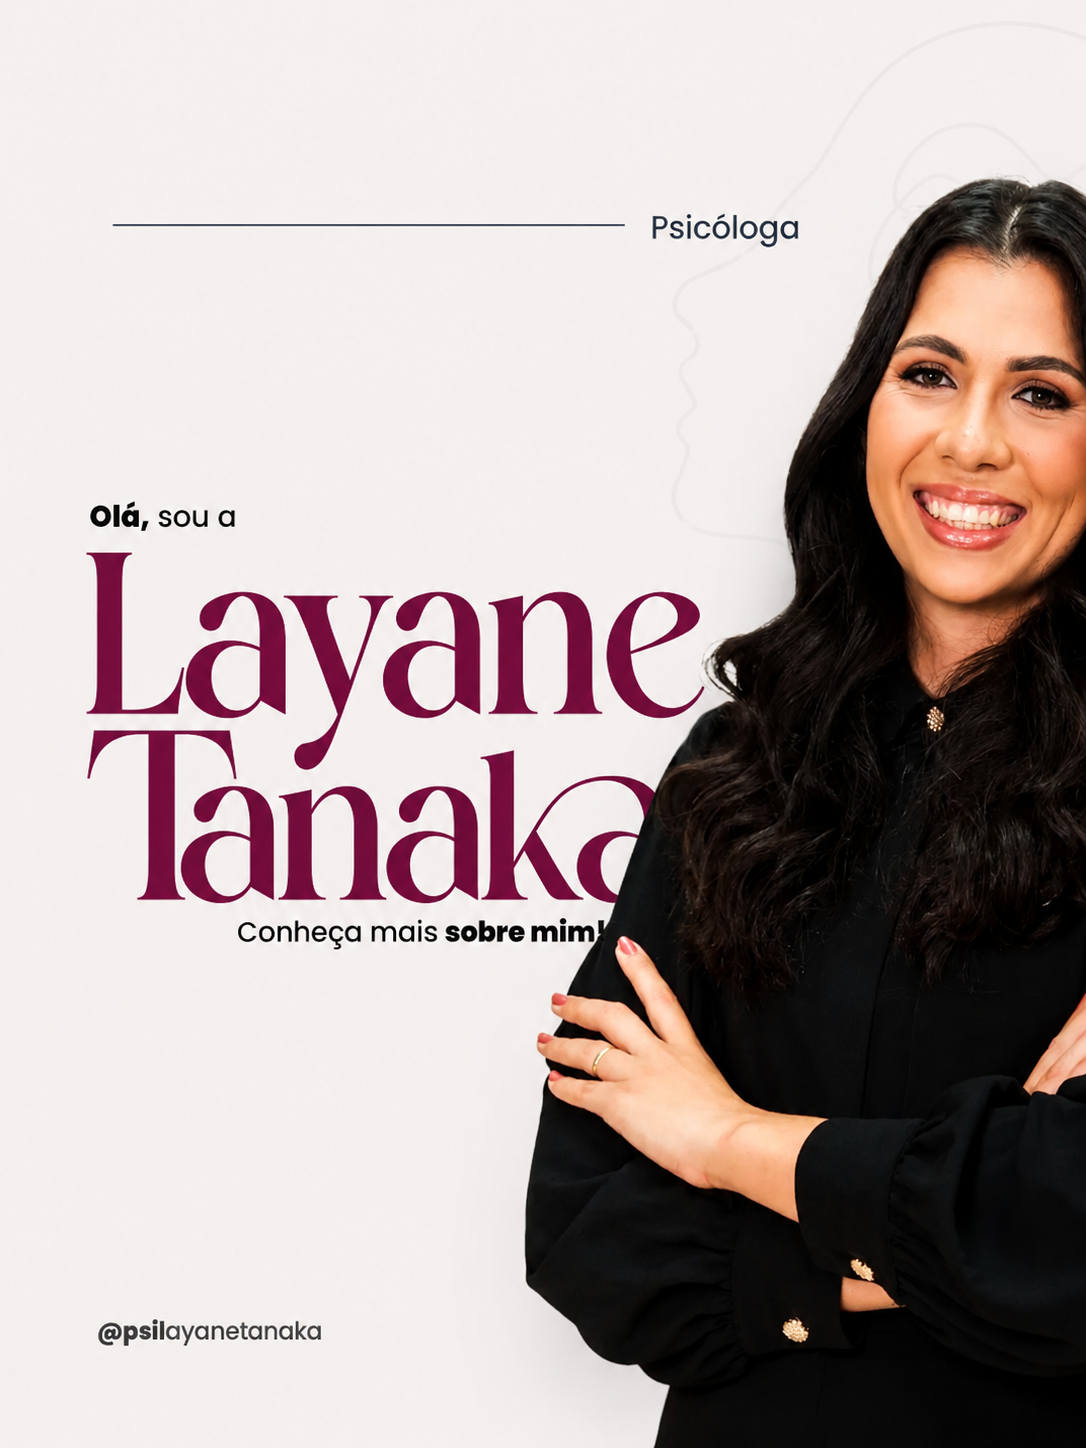
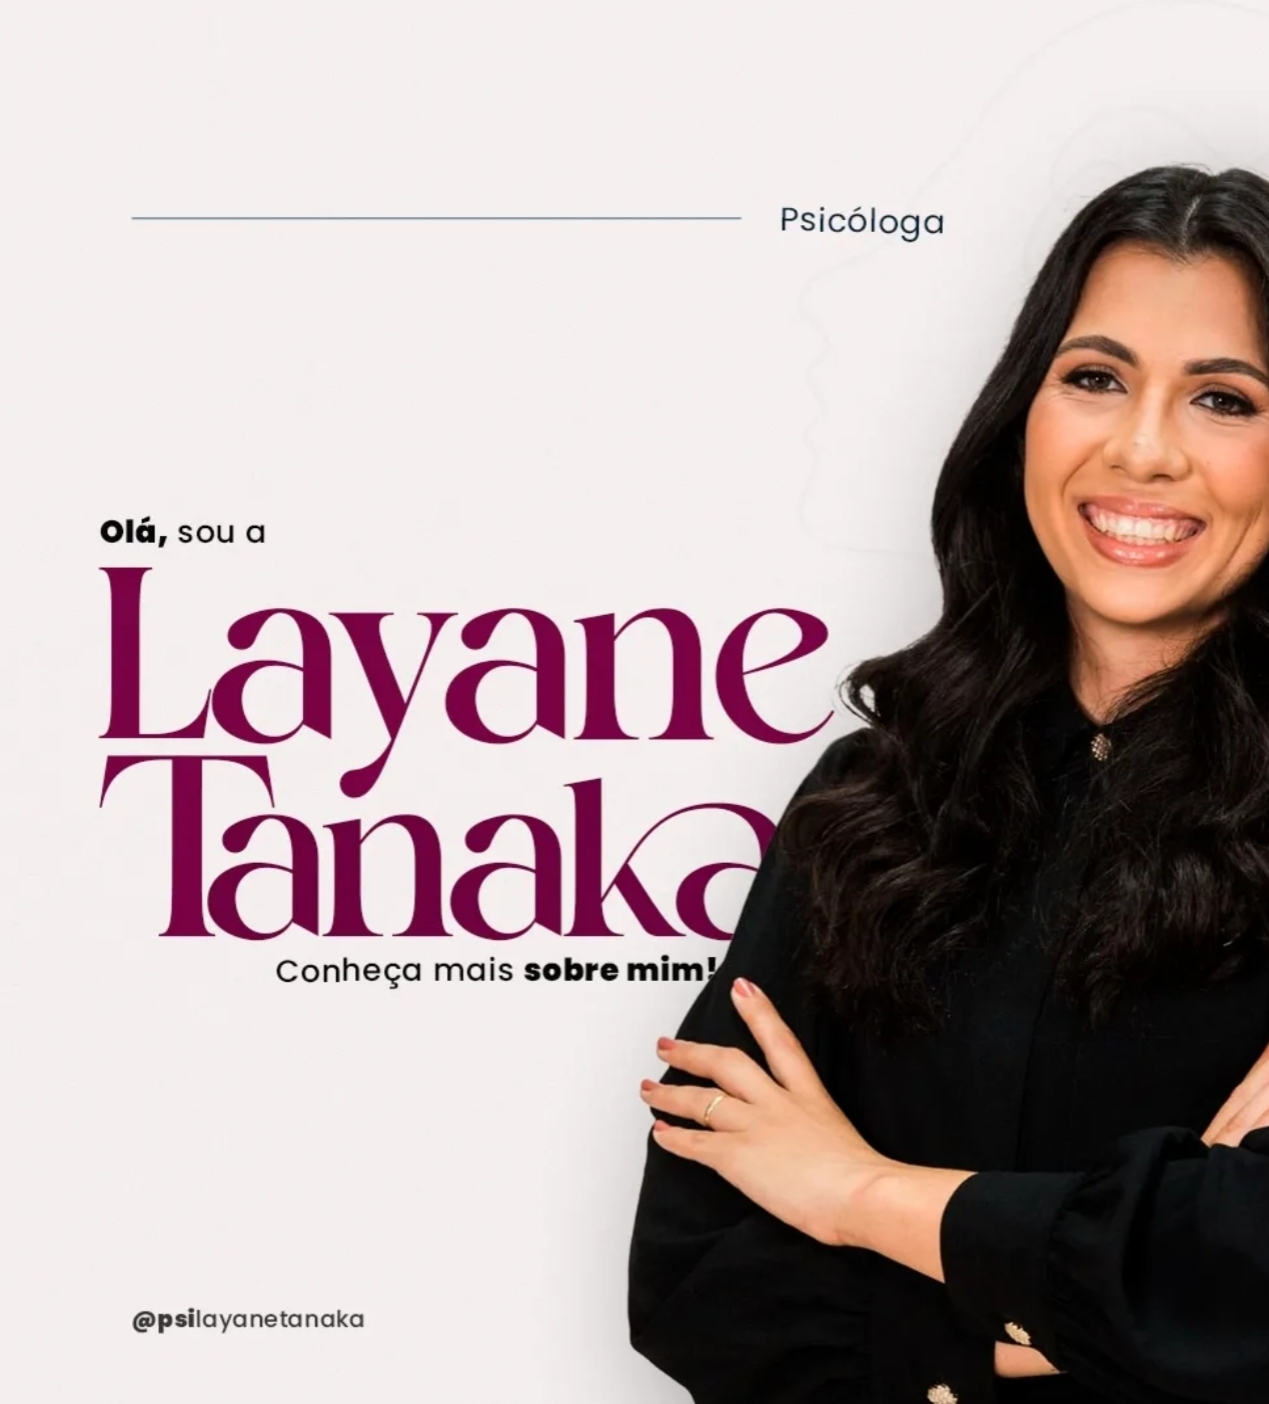
fix: resolve horizontal overflow issues
Standardize container widths and apply overflow-x-hidden globally to prevent unwanted horizontal scrolling on mobile devices.

diff --git a/app/layout.tsx b/app/layout.tsx
@@ -39,10 +39,7 @@ export default function RootLayout({ children }: { children: React.ReactNode }) 
   return (
     <html lang="pt-BR" className={`${cormorant.variable} ${inter.variable} ${jetbrainsMono.variable} ${lora.variable}`}>
       <head>
-        <meta
-          name="viewport"
-          content="width=device-width, initial-scale=1.0, maximum-scale=1.0, user-scalable=no"
-        />
+        <meta name="viewport" content="width=device-width, initial-scale=1.0, maximum-scale=1.0, user-scalable=no" />
         <link
           rel="preload"
           href="/hero_consultorio.jpg"
@@ -56,7 +53,7 @@ export default function RootLayout({ children }: { children: React.ReactNode }) 
           type="image/jpeg"
         />
       </head>
-      <body className="antialiased font-sans bg-brand-bg text-brand-text overflow-x-hidden selection:bg-brand-accent selection:text-brand-bg" suppressHydrationWarning>
+      <body className="w-full max-w-[100vw] overflow-x-hidden antialiased font-sans bg-brand-bg text-brand-text selection:bg-brand-accent selection:text-brand-bg" suppressHydrationWarning>
         <PageLoader />
         {children}
       </body>

diff --git a/components/Pillars.tsx b/components/Pillars.tsx
@@ -74,7 +74,7 @@ export const Pillars = ({ pillars }: PillarsProps) => {
   if (!hasMounted) return null;
 
   return (
-    <section className="py-24 px-6 lg:py-40" aria-labelledby="pilares-titulo">
+    <section className="w-full overflow-x-hidden py-24 px-6 lg:py-40" aria-labelledby="pilares-titulo">
       <h2 className="font-mono text-xs text-brand-accent uppercase tracking-widest text-center mb-6">
         02 / COMO FUNCIONA
       </h2>
@@ -82,7 +82,7 @@ export const Pillars = ({ pillars }: PillarsProps) => {
         Do primeiro contato ao acompanhamento.
       </h3>
 
-      <div className="max-w-4xl mx-auto grid grid-cols-1 md:grid-cols-3 gap-8">
+      <div className="w-full max-w-4xl mx-auto grid grid-cols-1 md:grid-cols-3 gap-8">
         {pillars.map((pillar, index) => {
           const isActive = isMobile
             ? activeIndex === index

diff --git a/components/Process.tsx b/components/Process.tsx
@@ -40,8 +40,8 @@ export function Process() {
   const progressHeight = isReducedMotion ? '100%' : `${scrollProgress * 100}%`;
 
   return (
-    <section id="processo" ref={sectionRef} className="py-24 lg:py-40 bg-brand-bg relative overflow-hidden">
-      <div className="max-w-7xl mx-auto px-6 lg:px-12 flex flex-col lg:flex-row gap-16 lg:gap-32">
+    <section id="processo" ref={sectionRef} className="w-full relative py-24 lg:py-40 bg-brand-bg overflow-hidden">
+      <div className="w-full max-w-7xl mx-auto px-6 lg:px-12 flex flex-col lg:flex-row gap-16 lg:gap-32">
         {/* Sticky Title */}
         <div className="lg:w-1/3 lg:sticky lg:top-40 h-[fit-content]">
           <h2 className="font-mono text-xs text-brand-accent uppercase tracking-widest mb-6">

diff --git a/components/EditorialBreak.tsx b/components/EditorialBreak.tsx
@@ -1,7 +1,7 @@
 export function EditorialBreak() {
   return (
-    <section className="py-[120px] lg:py-[200px] bg-brand-bg border-t border-brand-border">
-      <div className="max-w-4xl mx-auto px-6 lg:px-12 flex flex-col items-center text-center">
+    <section className="w-full overflow-x-hidden py-[120px] lg:py-[200px] bg-brand-bg border-t border-brand-border">
+      <div className="w-full max-w-4xl mx-auto px-6 lg:px-12 flex flex-col items-center text-center">
         <h2 className="font-serif italic font-normal text-[clamp(2rem,5vw,3.5rem)] leading-snug text-brand-text" style={{ fontFamily: 'var(--font-lora)' }}>
           &quot;Não é a situação que nos afeta, mas a forma como pensamos sobre ela.&quot;
         </h2>

diff --git a/components/Psicologa.tsx b/components/Psicologa.tsx
@@ -34,11 +34,11 @@ export function Psicologa() {
   return (
     <section 
       id="doutora" 
-      className={`py-24 lg:py-40 noise-bg section-doutora ${isFocused ? 'focused' : ''}`}
+      className={`w-full overflow-x-hidden py-24 lg:py-40 noise-bg section-doutora ${isFocused ? 'focused' : ''}`}
       onMouseEnter={handleMouseEnter}
       onMouseLeave={handleMouseLeave}
     >
-      <div className="max-w-7xl mx-auto px-6 lg:px-12">
+      <div className="w-full max-w-7xl mx-auto px-6 lg:px-12">
         <h2 className="font-mono text-xs text-brand-champagne uppercase tracking-widest flex items-center justify-center lg:justify-start mb-16">
           01 / A PSICÓLOGA
         </h2>

diff --git a/components/Treatments.tsx b/components/Treatments.tsx
@@ -11,8 +11,8 @@ const iconMap: Record<string, React.ElementType> = {
 
 export function Treatments() {
   return (
-    <section id="tratamentos" className="py-24 lg:py-40 bg-brand-bg-secondary">
-      <div className="max-w-7xl mx-auto px-6 lg:px-12">
+    <section id="tratamentos" className="w-full overflow-x-hidden py-24 lg:py-40 bg-brand-bg-secondary">
+      <div className="w-full max-w-7xl mx-auto px-6 lg:px-12">
         <div className="mb-20">
           <h2 className="font-mono text-xs text-brand-accent uppercase tracking-widest mb-6">
             03 / TRATAMENTOS

diff --git a/components/Unit.tsx b/components/Unit.tsx
@@ -2,8 +2,8 @@ import { config } from '@/lib/config';
 
 export function Unit() {
   return (
-    <section className="py-24 lg:py-40 bg-brand-bg-secondary noise-bg border-t border-brand-border">
-      <div className="max-w-7xl mx-auto px-6 lg:px-12">
+    <section className="w-full overflow-x-hidden py-24 lg:py-40 bg-brand-bg-secondary noise-bg border-t border-brand-border">
+      <div className="w-full max-w-7xl mx-auto px-6 lg:px-12">
         
         <div className="grid grid-cols-1 lg:grid-cols-2 gap-16 lg:gap-24 items-center">
           

diff --git a/components/Hero.tsx b/components/Hero.tsx
@@ -11,7 +11,7 @@ export function Hero() {
   const config = contentExport.siteConfig;
 
   return (
-    <section className="relative min-h-[92vh] flex items-center justify-center pt-24 bg-brand-bg overflow-hidden noise-bg">
+    <section className="relative w-full min-h-[92vh] flex items-center justify-center pt-24 bg-brand-bg overflow-hidden noise-bg">
       <div className="max-w-7xl mx-auto w-full px-6 lg:px-12 grid grid-cols-1 lg:grid-cols-[55%_45%] gap-12 lg:gap-8 items-center z-10">
         
         {/* Left: Content */}

diff --git a/components/Contact.tsx b/components/Contact.tsx
@@ -11,8 +11,8 @@ export function Contact() {
   };
 
   return (
-    <section id="contato" className="py-24 lg:py-40 bg-brand-bg">
-      <div className="max-w-7xl mx-auto px-6 lg:px-12 grid grid-cols-1 lg:grid-cols-2 gap-16 lg:gap-24">
+    <section id="contato" className="w-full overflow-x-hidden py-24 lg:py-40 bg-brand-bg">
+      <div className="w-full max-w-7xl mx-auto px-6 lg:px-12 grid grid-cols-1 lg:grid-cols-2 gap-16 lg:gap-24">
         
         {/* Social */}
         <div className="flex flex-col justify-center">

diff --git a/components/Footer.tsx b/components/Footer.tsx
@@ -3,7 +3,7 @@ import { Logo } from './Logo';
 
 export function Footer() {
   return (
-    <footer className="bg-[#1A2733] text-brand-bg py-24 lg:py-32 relative z-10 w-full flex flex-col items-center">
+    <footer className="w-full overflow-x-hidden bg-[#1A2733] text-brand-bg py-24 lg:py-32 relative z-10 flex flex-col items-center">
       
       {/* Centered Large Info */}
       <div className="flex flex-col items-center mb-24 text-center px-6">

diff --git a/app/page.tsx b/app/page.tsx
@@ -37,7 +37,7 @@ export default function Page() {
   };
 
   return (
-    <main className="w-full relative selection:bg-brand-accent selection:text-brand-bg pb-0">
+    <main className="w-full overflow-x-hidden relative selection:bg-brand-accent selection:text-brand-bg pb-0">
       {!introFinished && <EnvelopeIntro onComplete={handleEnvelopeComplete} />}
       {!introFinished && triggerReveal && <InkReveal isReady={true} />}
 

diff --git a/components/Header.tsx b/components/Header.tsx
@@ -28,7 +28,7 @@ export function Header() {
             : 'bg-transparent border-transparent py-6'
         }`}
       >
-        <div className="max-w-7xl mx-auto px-6 lg:px-12 flex items-center justify-between">
+        <div className="w-full max-w-7xl mx-auto px-6 lg:px-12 flex items-center justify-between">
           <Logo />
           
           {/* Desktop Nav */}
